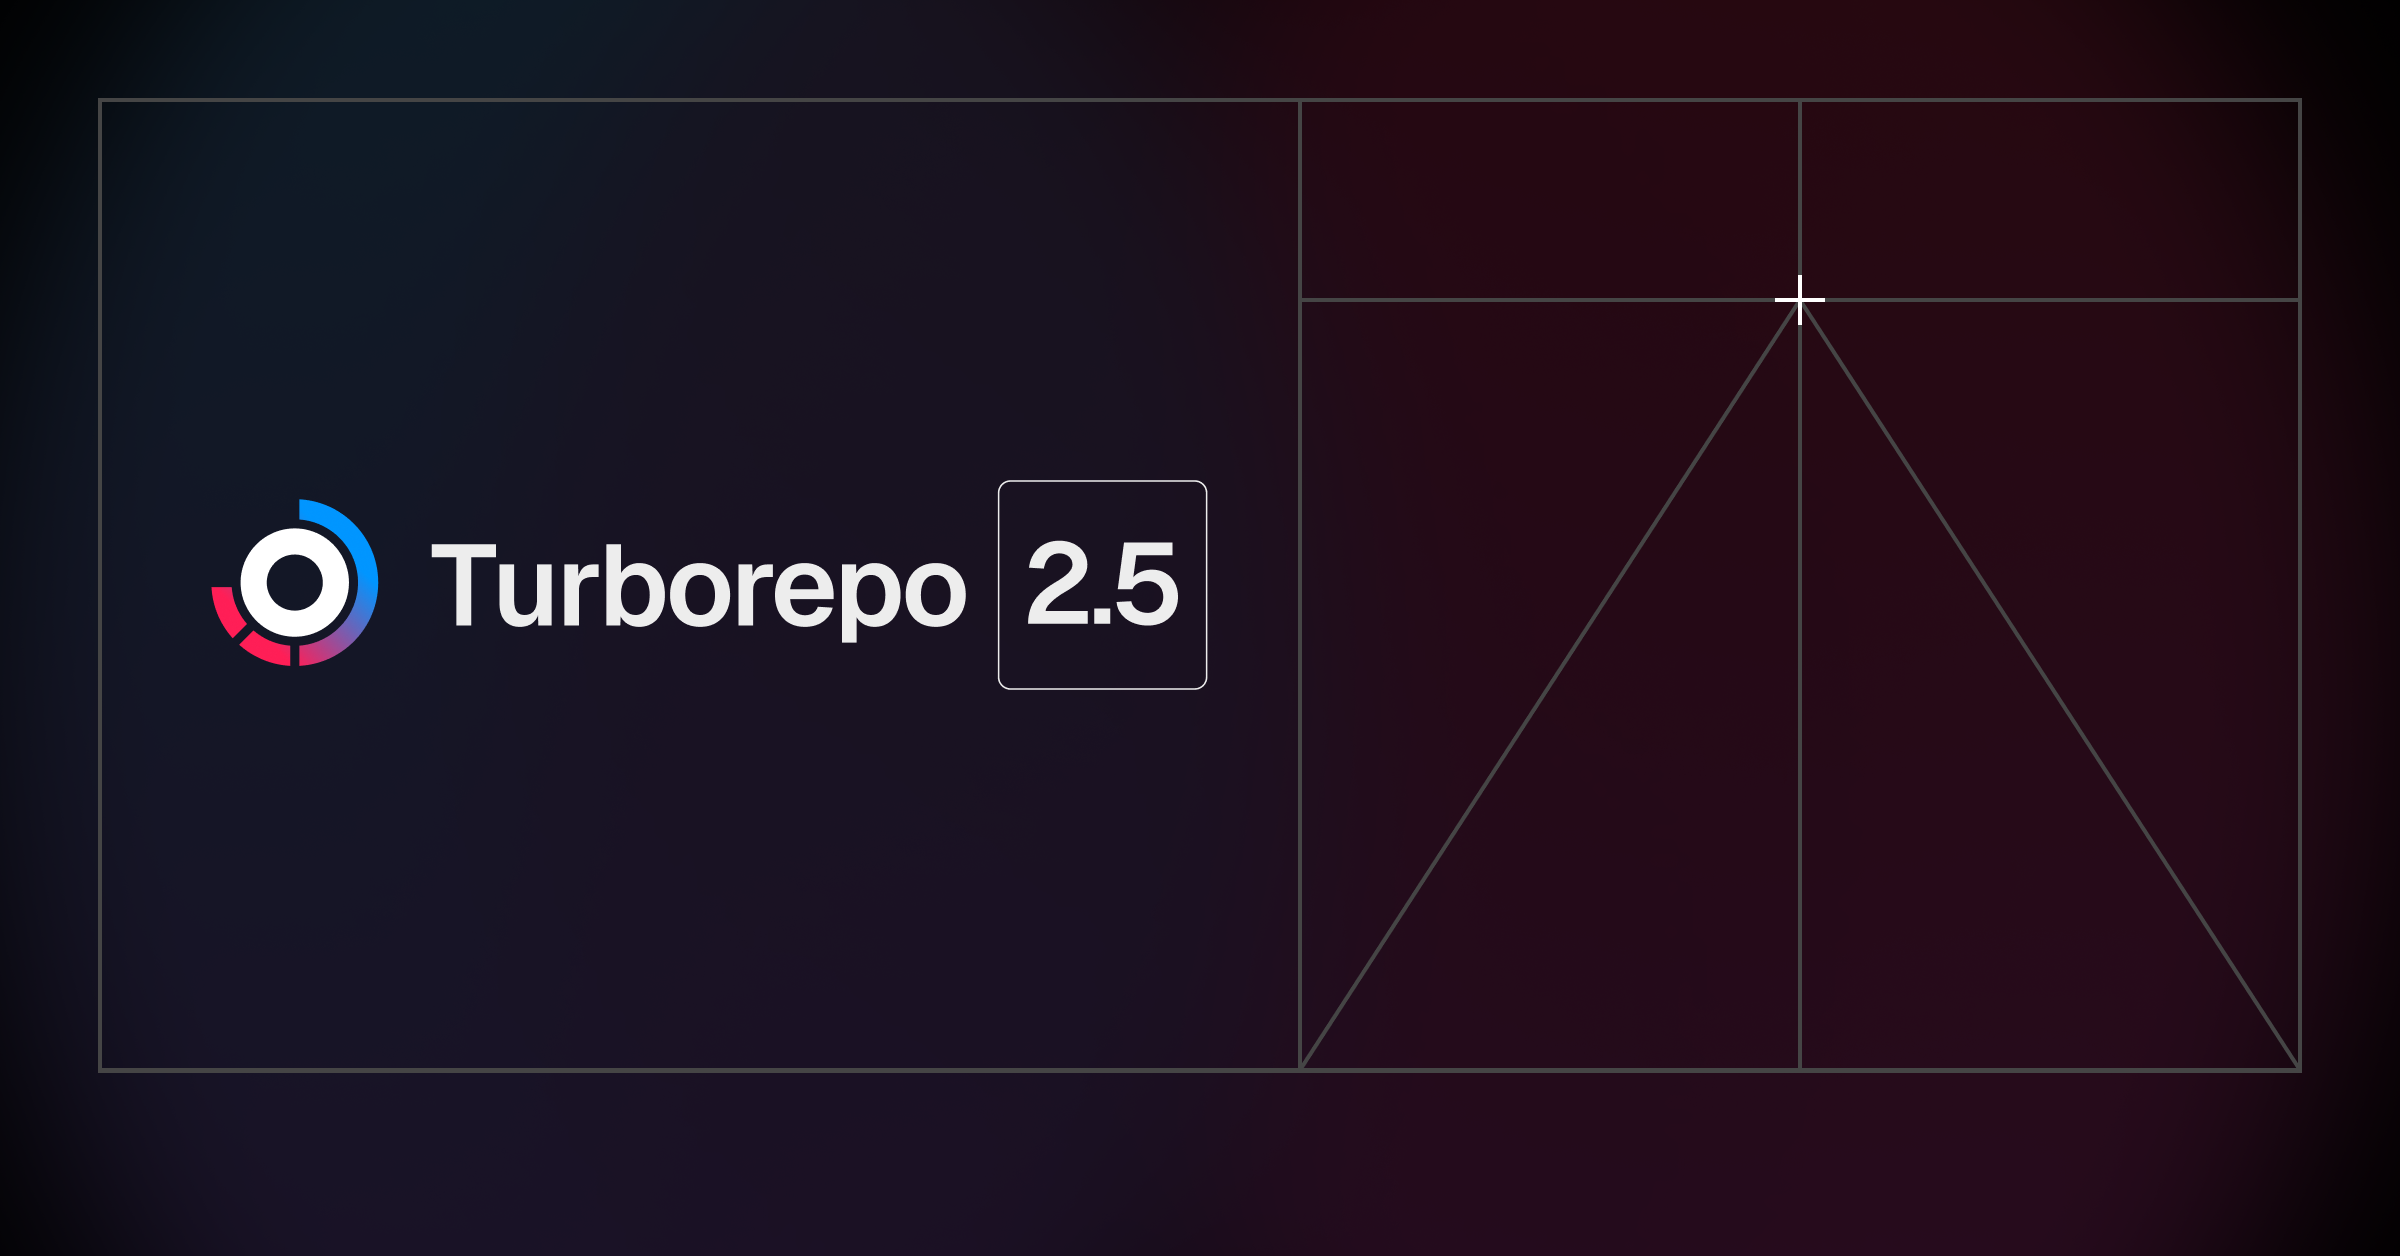
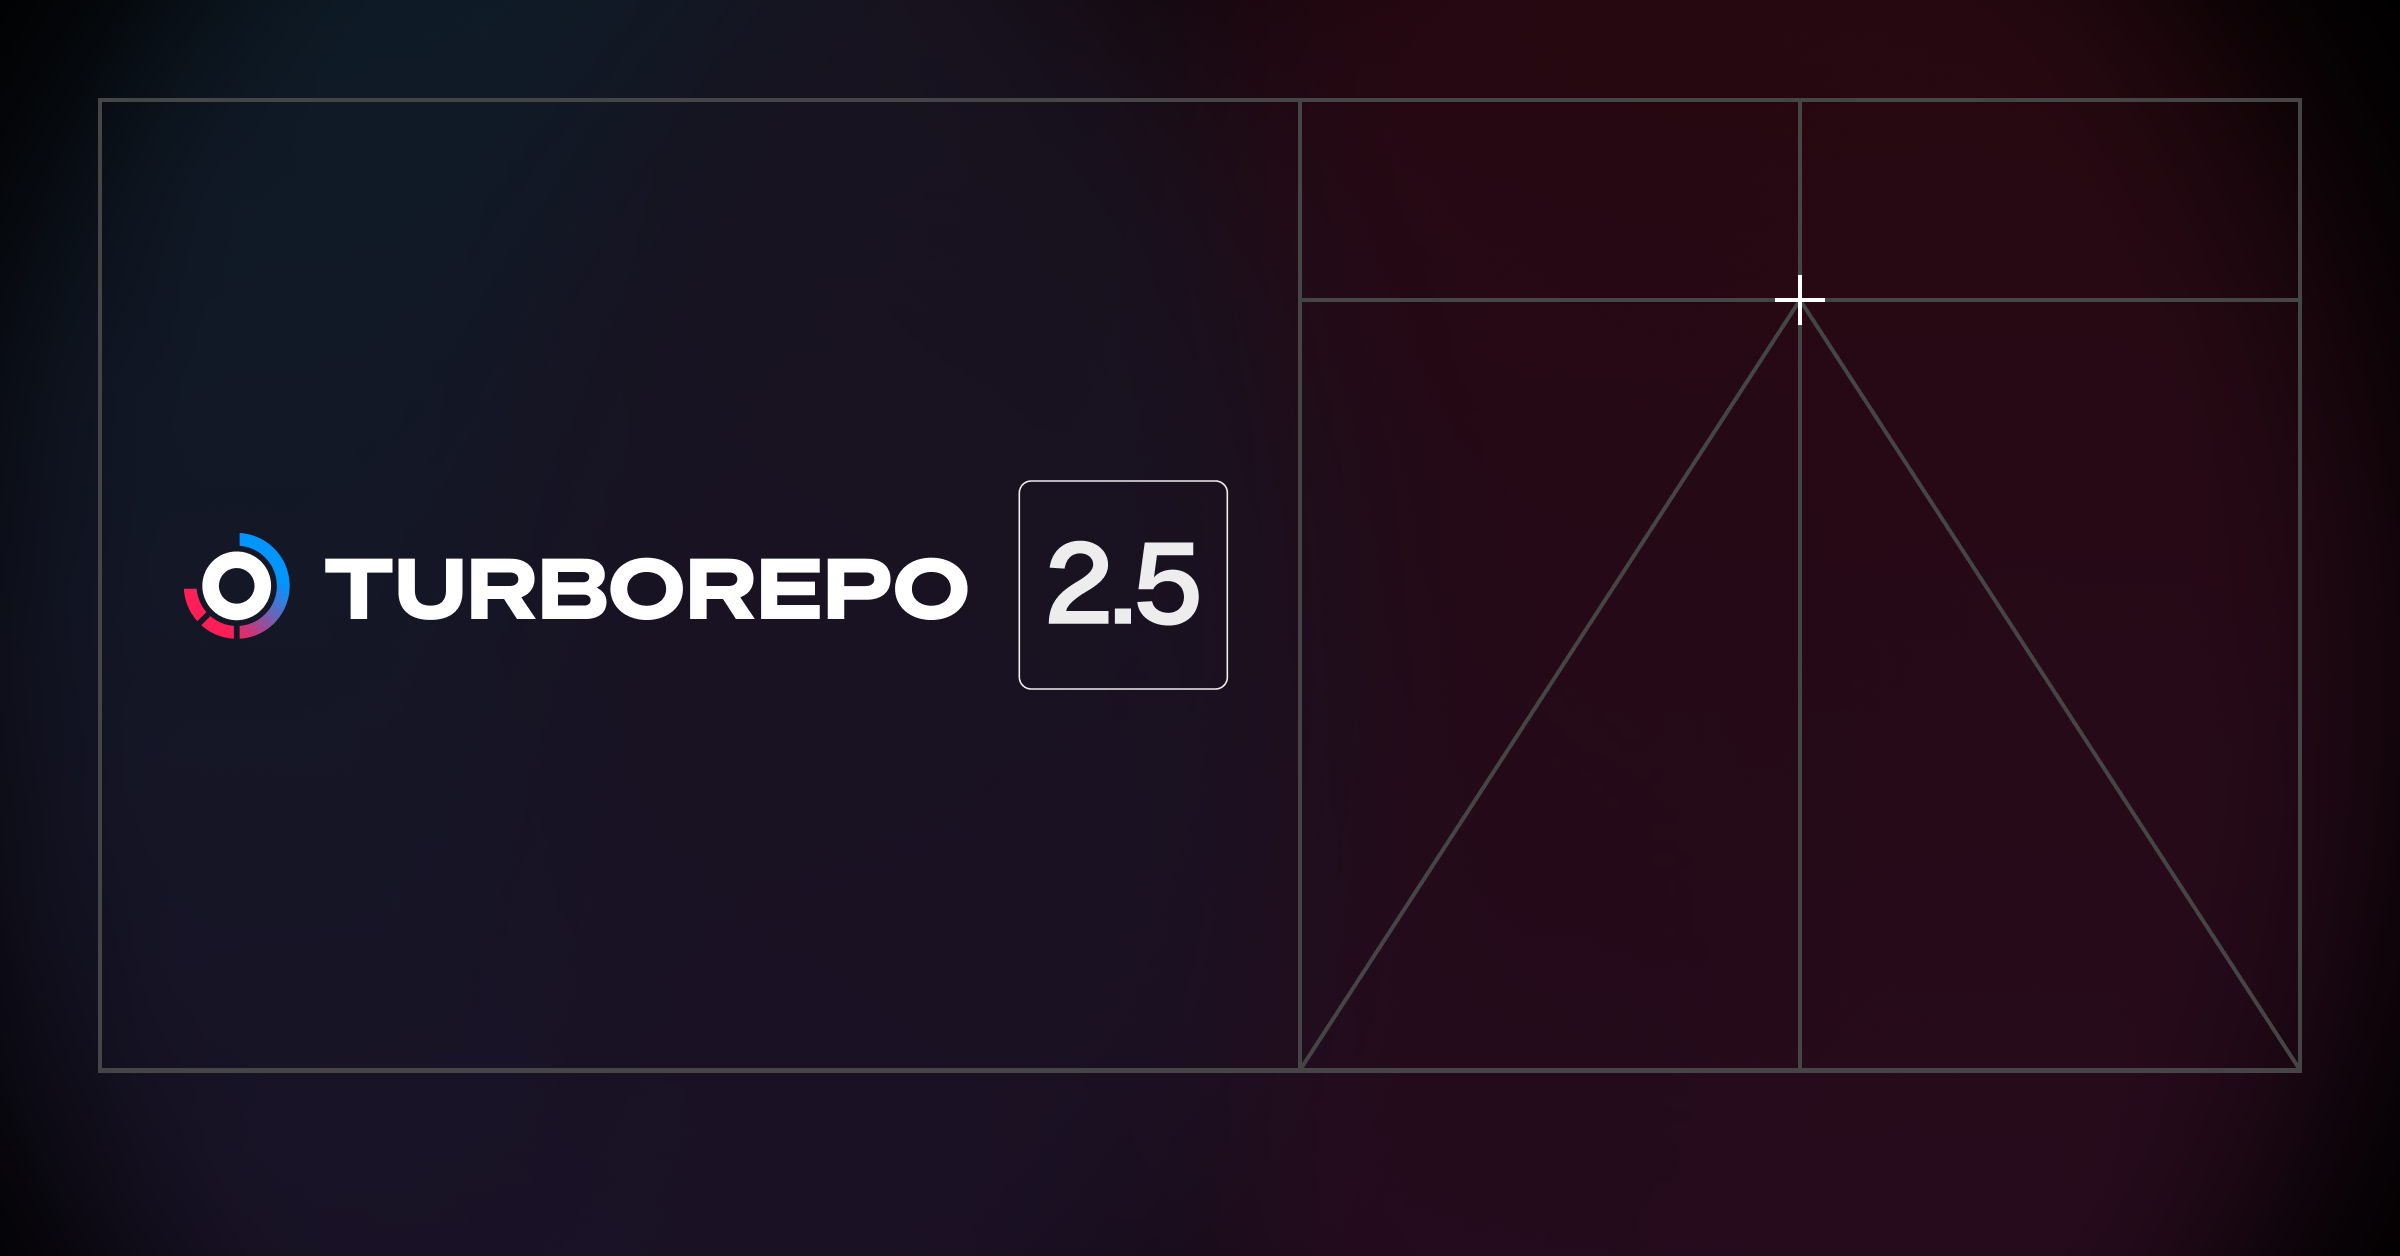
docs: correct usage of wordmark (#10286)
### Description

Correcting the wordmark in a few places from using Geist to the custom
block text.

### Testing Instructions

👀

Changed region(s): [[0.0625, 0.4037, 0.5, 0.5279]]

diff --git a/docs/site/components/icons/turborepo-wordmark.tsx b/docs/site/components/icons/turborepo-wordmark.tsx
@@ -1,0 +1,151 @@
+export const TurborepoWordmarkDark = ({
+  className,
+}: {
+  className?: string;
+}) => {
+  return (
+    <svg
+      className={className}
+      width="473"
+      height="76"
+      viewBox="0 0 473 76"
+      fill="none"
+    >
+      <path
+        d="M130.998 30.6566V22.3773H91.0977V30.6566H106.16V58.1876H115.935V30.6566H130.998Z"
+        fill="white"
+      />
+      <path
+        d="M153.542 58.7362C165.811 58.7362 172.544 52.5018 172.544 42.2276V22.3773H162.768V41.2799C162.768 47.0156 159.776 50.2574 153.542 50.2574C147.307 50.2574 144.315 47.0156 144.315 41.2799V22.3773H134.539V42.2276C134.539 52.5018 141.272 58.7362 153.542 58.7362Z"
+        fill="white"
+      />
+      <path
+        d="M187.508 46.3173H197.234L204.914 58.1876H216.136L207.458 45.2699C212.346 43.5243 215.338 39.6341 215.338 34.3473C215.338 26.6666 209.603 22.3773 200.874 22.3773H177.732V58.1876H187.508V46.3173ZM187.508 38.5867V30.5568H200.376C203.817 30.5568 205.712 32.0531 205.712 34.5967C205.712 36.9907 203.817 38.5867 200.376 38.5867H187.508Z"
+        fill="white"
+      />
+      <path
+        d="M219.887 58.1876H245.472C253.452 58.1876 258.041 54.3971 258.041 48.0629C258.041 43.8236 255.348 40.9308 252.156 39.6341C254.35 38.5867 257.043 36.0929 257.043 32.1528C257.043 25.8187 252.555 22.3773 244.625 22.3773H219.887V58.1876ZM229.263 36.3922V30.3074H243.627C246.32 30.3074 247.817 31.3548 247.817 33.3498C247.817 35.3448 246.32 36.3922 243.627 36.3922H229.263ZM229.263 43.7238H244.525C247.168 43.7238 248.615 45.0206 248.615 46.9657C248.615 48.9108 247.168 50.2076 244.525 50.2076H229.263V43.7238Z"
+        fill="white"
+      />
+      <path
+        d="M281.942 21.7788C269.423 21.7788 260.396 29.6092 260.396 40.2824C260.396 50.9557 269.423 58.7861 281.942 58.7861C294.461 58.7861 303.438 50.9557 303.438 40.2824C303.438 29.6092 294.461 21.7788 281.942 21.7788ZM281.942 30.2576C288.525 30.2576 293.463 34.1478 293.463 40.2824C293.463 46.4171 288.525 50.3073 281.942 50.3073C275.359 50.3073 270.421 46.4171 270.421 40.2824C270.421 34.1478 275.359 30.2576 281.942 30.2576Z"
+        fill="white"
+      />
+      <path
+        d="M317.526 46.3173H327.251L334.932 58.1876H346.154L337.476 45.2699C342.364 43.5243 345.356 39.6341 345.356 34.3473C345.356 26.6666 339.62 22.3773 330.892 22.3773H307.75V58.1876H317.526V46.3173ZM317.526 38.5867V30.5568H330.394C333.835 30.5568 335.73 32.0531 335.73 34.5967C335.73 36.9907 333.835 38.5867 330.394 38.5867H317.526Z"
+        fill="white"
+      />
+      <path
+        d="M349.904 22.3773V58.1876H384.717V49.9083H359.48V44.0729H381.874V35.9932H359.48V30.6566H384.717V22.3773H349.904Z"
+        fill="white"
+      />
+      <path
+        d="M399.204 46.7662H412.221C420.95 46.7662 426.685 42.5767 426.685 34.5967C426.685 26.5668 420.95 22.3773 412.221 22.3773H389.428V58.1876H399.204V46.7662ZM399.204 38.6366V30.5568H411.673C415.164 30.5568 417.059 32.0531 417.059 34.5967C417.059 37.0904 415.164 38.6366 411.673 38.6366H399.204Z"
+        fill="white"
+      />
+      <path
+        d="M450.948 21.7788C438.43 21.7788 429.402 29.6092 429.402 40.2824C429.402 50.9557 438.43 58.7861 450.948 58.7861C463.467 58.7861 472.444 50.9557 472.444 40.2824C472.444 29.6092 463.467 21.7788 450.948 21.7788ZM450.948 30.2576C457.532 30.2576 462.469 34.1478 462.469 40.2824C462.469 46.4171 457.532 50.3073 450.948 50.3073C444.365 50.3073 439.427 46.4171 439.427 40.2824C439.427 34.1478 444.365 30.2576 450.948 30.2576Z"
+        fill="white"
+      />
+      <path
+        d="M38.5017 18.0956C27.2499 18.0956 18.0957 27.2498 18.0957 38.5016C18.0957 49.7534 27.2499 58.9076 38.5017 58.9076C49.7535 58.9076 58.9077 49.7534 58.9077 38.5016C58.9077 27.2498 49.7535 18.0956 38.5017 18.0956ZM38.5017 49.0618C32.6687 49.0618 27.9415 44.3346 27.9415 38.5016C27.9415 32.6686 32.6687 27.9414 38.5017 27.9414C44.3347 27.9414 49.0619 32.6686 49.0619 38.5016C49.0619 44.3346 44.3347 49.0618 38.5017 49.0618Z"
+        fill="white"
+      />
+      <path
+        fill-rule="evenodd"
+        clip-rule="evenodd"
+        d="M40.2115 14.744V7.125C56.7719 8.0104 69.9275 21.7208 69.9275 38.5016C69.9275 55.2824 56.7719 68.989 40.2115 69.8782V62.2592C52.5539 61.3776 62.3275 51.0644 62.3275 38.5016C62.3275 25.9388 52.5539 15.6256 40.2115 14.744ZM20.5048 54.0815C17.233 50.3043 15.124 45.4935 14.7478 40.2115H7.125C7.5202 47.6025 10.4766 54.3095 15.1088 59.4737L20.501 54.0815H20.5048ZM36.7916 69.8782V62.2592C31.5058 61.883 26.695 59.7778 22.9178 56.5022L17.5256 61.8944C22.6936 66.5304 29.4006 69.483 36.7878 69.8782H36.7916Z"
+        fill="url(#paint0_linear_2028_477)"
+      />
+      <defs>
+        <linearGradient
+          id="paint0_linear_2028_477"
+          x1="41.443"
+          y1="11.5372"
+          x2="10.5567"
+          y2="42.4236"
+          gradientUnits="userSpaceOnUse"
+        >
+          <stop stop-color="#0096FF" />
+          <stop offset="1" stop-color="#FF1E56" />
+        </linearGradient>
+      </defs>
+    </svg>
+  );
+};
+
+export const TurborepoWordmarkLight = ({
+  className,
+}: {
+  className?: string;
+}) => {
+  return (
+    <svg
+      className={className}
+      width="473"
+      height="76"
+      viewBox="0 0 473 76"
+      fill="none"
+    >
+      <path
+        d="M130.998 30.6565V22.3773H91.0977V30.6565H106.16V58.1875H115.935V30.6565H130.998Z"
+        fill="black"
+      />
+      <path
+        d="M153.542 58.7362C165.811 58.7362 172.544 52.5018 172.544 42.2275V22.3773H162.768V41.2799C162.768 47.0155 159.776 50.2574 153.542 50.2574C147.307 50.2574 144.315 47.0155 144.315 41.2799V22.3773H134.539V42.2275C134.539 52.5018 141.272 58.7362 153.542 58.7362Z"
+        fill="black"
+      />
+      <path
+        d="M187.508 46.3173H197.234L204.914 58.1875H216.136L207.458 45.2699C212.346 43.5243 215.338 39.634 215.338 34.3473C215.338 26.6665 209.603 22.3773 200.874 22.3773H177.732V58.1875H187.508V46.3173ZM187.508 38.5867V30.5568H200.376C203.817 30.5568 205.712 32.053 205.712 34.5967C205.712 36.9907 203.817 38.5867 200.376 38.5867H187.508Z"
+        fill="black"
+      />
+      <path
+        d="M219.887 58.1875H245.472C253.452 58.1875 258.041 54.397 258.041 48.0629C258.041 43.8235 255.348 40.9308 252.156 39.634C254.35 38.5867 257.043 36.0929 257.043 32.1528C257.043 25.8187 252.555 22.3773 244.625 22.3773H219.887V58.1875ZM229.263 36.3922V30.3074H243.627C246.32 30.3074 247.817 31.3548 247.817 33.3498C247.817 35.3448 246.32 36.3922 243.627 36.3922H229.263ZM229.263 43.7238H244.525C247.168 43.7238 248.615 45.0205 248.615 46.9657C248.615 48.9108 247.168 50.2075 244.525 50.2075H229.263V43.7238Z"
+        fill="black"
+      />
+      <path
+        d="M281.942 21.7788C269.423 21.7788 260.396 29.6092 260.396 40.2824C260.396 50.9557 269.423 58.786 281.942 58.786C294.461 58.786 303.438 50.9557 303.438 40.2824C303.438 29.6092 294.461 21.7788 281.942 21.7788ZM281.942 30.2575C288.525 30.2575 293.463 34.1478 293.463 40.2824C293.463 46.417 288.525 50.3073 281.942 50.3073C275.359 50.3073 270.421 46.417 270.421 40.2824C270.421 34.1478 275.359 30.2575 281.942 30.2575Z"
+        fill="black"
+      />
+      <path
+        d="M317.526 46.3173H327.251L334.932 58.1875H346.154L337.476 45.2699C342.364 43.5243 345.356 39.634 345.356 34.3473C345.356 26.6665 339.62 22.3773 330.892 22.3773H307.75V58.1875H317.526V46.3173ZM317.526 38.5867V30.5568H330.394C333.835 30.5568 335.73 32.053 335.73 34.5967C335.73 36.9907 333.835 38.5867 330.394 38.5867H317.526Z"
+        fill="black"
+      />
+      <path
+        d="M349.904 22.3773V58.1875H384.717V49.9083H359.48V44.0729H381.874V35.9932H359.48V30.6565H384.717V22.3773H349.904Z"
+        fill="black"
+      />
+      <path
+        d="M399.204 46.7662H412.221C420.95 46.7662 426.685 42.5767 426.685 34.5967C426.685 26.5668 420.95 22.3773 412.221 22.3773H389.428V58.1875H399.204V46.7662ZM399.204 38.6365V30.5568H411.673C415.164 30.5568 417.059 32.053 417.059 34.5967C417.059 37.0904 415.164 38.6365 411.673 38.6365H399.204Z"
+        fill="black"
+      />
+      <path
+        d="M450.948 21.7788C438.43 21.7788 429.402 29.6092 429.402 40.2824C429.402 50.9557 438.43 58.786 450.948 58.786C463.467 58.786 472.444 50.9557 472.444 40.2824C472.444 29.6092 463.467 21.7788 450.948 21.7788ZM450.948 30.2575C457.532 30.2575 462.469 34.1478 462.469 40.2824C462.469 46.417 457.532 50.3073 450.948 50.3073C444.365 50.3073 439.427 46.417 439.427 40.2824C439.427 34.1478 444.365 30.2575 450.948 30.2575Z"
+        fill="black"
+      />
+      <path
+        d="M38.5017 18.0956C27.2499 18.0956 18.0957 27.2498 18.0957 38.5016C18.0957 49.7534 27.2499 58.9076 38.5017 58.9076C49.7535 58.9076 58.9077 49.7534 58.9077 38.5016C58.9077 27.2498 49.7535 18.0956 38.5017 18.0956ZM38.5017 49.0618C32.6687 49.0618 27.9415 44.3346 27.9415 38.5016C27.9415 32.6686 32.6687 27.9414 38.5017 27.9414C44.3347 27.9414 49.0619 32.6686 49.0619 38.5016C49.0619 44.3346 44.3347 49.0618 38.5017 49.0618Z"
+        fill="black"
+      />
+      <path
+        fill-rule="evenodd"
+        clip-rule="evenodd"
+        d="M40.2115 14.744V7.125C56.7719 8.0104 69.9275 21.7208 69.9275 38.5016C69.9275 55.2824 56.7719 68.989 40.2115 69.8782V62.2592C52.5539 61.3776 62.3275 51.0644 62.3275 38.5016C62.3275 25.9388 52.5539 15.6256 40.2115 14.744ZM20.5048 54.0815C17.233 50.3043 15.124 45.4935 14.7478 40.2115H7.125C7.5202 47.6025 10.4766 54.3095 15.1088 59.4737L20.501 54.0815H20.5048ZM36.7916 69.8782V62.2592C31.5058 61.883 26.695 59.7778 22.9178 56.5022L17.5256 61.8944C22.6936 66.5304 29.4006 69.483 36.7878 69.8782H36.7916Z"
+        fill="url(#paint0_linear_2028_252)"
+      />
+      <defs>
+        <linearGradient
+          id="paint0_linear_2028_252"
+          x1="41.443"
+          y1="11.5372"
+          x2="10.5567"
+          y2="42.4236"
+          gradientUnits="userSpaceOnUse"
+        >
+          <stop stop-color="#0096FF" />
+          <stop offset="1" stop-color="#FF1E56" />
+        </linearGradient>
+      </defs>
+    </svg>
+  );
+};

diff --git a/docs/site/components/nav/index.tsx b/docs/site/components/nav/index.tsx
@@ -16,8 +16,11 @@ import { ForwardSlash } from "../icons/ForwardSlash";
 import { Button } from "../button";
 import { FeedbackWidget } from "../feedback-widget";
 import { useSearchContext } from "fumadocs-ui/provider";
-import { ThemeAwareImage } from "../theme-aware-image";
 import { MobileMenuTopLevel } from "../docs-layout/mobile-menu-top-level";
+import {
+  TurborepoWordmarkDark,
+  TurborepoWordmarkLight,
+} from "#/components/icons/turborepo-wordmark";
 
 export const PAGES = [
   {
@@ -43,8 +46,6 @@ export const PAGES = [
 ] as const;
 export type Pages = typeof PAGES;
 
-const size = 24;
-
 function HomeLinks() {
   return (
     <div className="flex items-center gap-2">
@@ -55,29 +56,8 @@ function HomeLinks() {
       <ForwardSlash className="w-[16px] h-[16px]" />
 
       <Link className="flex flex-row items-center gap-2" href="/">
-        <ThemeAwareImage
-          light={{
-            src: "/images/product-icons/repo-light-32x32.png",
-            alt: "Turborepo logo",
-            props: {
-              src: "/images/product-icons/repo-light-32x32.png",
-              alt: "Turborepo logo",
-              width: size,
-              height: size,
-            },
-          }}
-          dark={{
-            src: "/images/product-icons/repo-dark-32x32.png",
-            alt: "Turborepo logo",
-            props: {
-              src: "/images/product-icons/repo-dark-32x32.png",
-              alt: "Turborepo logo",
-              width: size,
-              height: size,
-            },
-          }}
-        />
-        <div className="text-lg font-semibold ml-2">Turborepo</div>
+        <TurborepoWordmarkDark className="h-[24px] w-auto hidden dark:block" />
+        <TurborepoWordmarkLight className="h-[24px] w-auto dark:hidden" />
       </Link>
     </div>
   );
